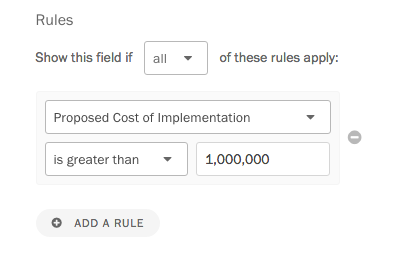
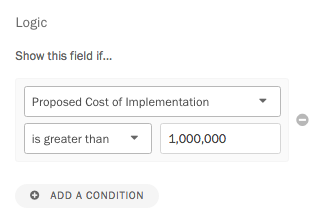
first take of "rules" -> "conditional logic" (#294)
* first take of "rules" -> "conditional logic"

* Copyedits

* 'conditional logic' --> 'logic'

* Update screenshots

diff --git a/contents/articles/screendoor/your_form/building_your_form.md b/contents/articles/screendoor/your_form/building_your_form.md
@@ -59,25 +59,25 @@ If responses have been submitted to your project, we assume that those responses
 
 Selecting "Hide this field" will make the field invisible to the public, move it to the bottom of the form, and leave your responses intact. If you select "Delete this field and its answers," it will delete the field and remove all previous answers to it within your responses.
 
-### Adding rules for complex logic
+### Adding logic
 
-Rules allow you to add powerful logic to your form, by conditionally showing and hiding fields depending on the respondent's previous answers.
+Screendoor allows you to add powerful logic (previously called "rules") to your form, so you can show or hide fields depending on the respondent's previous answers.
 
 For example, if some questions in your form should be skipped unless the implementation cost is over $1 million, you could hide those fields until the respondent indicates their implementation cost. Let's walk through that example below.
 
-To start adding rules, select the field you wish to hide, and press the "Add a rule" button in the left pane.
+To add logic to your form, first select the field you wish to hide, and press the "Add a condition" button in the left pane.
 
-![Adding a rule to a field.](../images/formbuilder_9.png)
+![Adding a condition to a field.](../images/formbuilder_9.png)
 
 Under "Only show this field if&hellip;" select the appropriate options. In this example, we want to show this question only if the cost is more than $1 million.
 
-![Setting conditions for a rule.](../images/formbuilder_10.png)
+![Setting details for a condition.](../images/formbuilder_10.png)
 
-Once you have set up your rule, you will see the label "Hidden until rules are met" next to the field in the preview pane. When the respondent fills out the form, they won't see this field unless they meet the rule.
+Once you have set up your condition, you will see the label "Conditional" next to the field in the preview pane. When the respondent fills out the form, they won't see this field unless they meet the condition.
 
-![What a respondent sees when filling out a form with rules.](../images/formbuilder_11.gif)
+![What a respondent sees when filling out a form with logic.](../images/formbuilder_11.gif)
 
-If you want to show more than one field based on a previous answer, you must add the rule manually to each affected field.
+If you want to show more than one field based on a previous answer, you must manually add the condition to each affected field.
 
 <div class='alert'>
     **Note:** Try to keep your form simple. If you find yourself creating complex conditional scenarios, or making forms with dozens of pages, consider breaking up your form into several smaller projects.

diff --git a/contents/articles/screendoor/your_form/designing_a_great_form.md b/contents/articles/screendoor/your_form/designing_a_great_form.md
@@ -96,9 +96,9 @@ Use section breaks to organize your form and provide clear hierarchy. Use large 
 
 When someone encounters a huge form, it can feel overwhelming and deter them from even starting. Make your form more approachable by grouping related fields into sections, and devoting a single page to each section.
 
-#### 10. Instead of asking your respondents to skip sections, use rules instead.
+#### 10. Instead of asking your respondents to skip sections, add logic to your form instead.
 
-If you need your respondents to skip sections of your form depending on their previous answers, you should consider using [rules](/articles/screendoor/your_form/building_your_form.html#adding-rules-for-complex-logic) instead of explaining it in writing. Rules allow you conditionally hide or show any field on your form, making complex forms much more usable.
+If you need your respondents to skip sections of your form depending on their previous answers, you should consider [using logic](/articles/screendoor/your_form/building_your_form.html#adding-logic) instead of explaining it in writing. Logic allows you to hide or show any field on your form, making complex forms much more usable.
 
 ### Improving your copywriting skills
 
